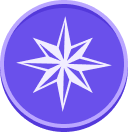
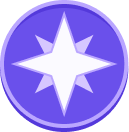
Chore: update star-nav image

diff --git a/src/components/common/DataWidget.svelte b/src/components/common/DataWidget.svelte
@@ -32,8 +32,7 @@ on:click_outside={handleClickOutside} -->
 >
   <img
     class="toggle-trigger w-full h-auto"
-    src={`${window.location.origin}/star@2x.png`}
-    srcset={`${window.location.origin}/star.png 1x, ${window.location.origin}/star@2x.png 2x`}
+    src={`${window.location.origin}/star-nav.png`}
     alt="data widget"
   />
 </button>
